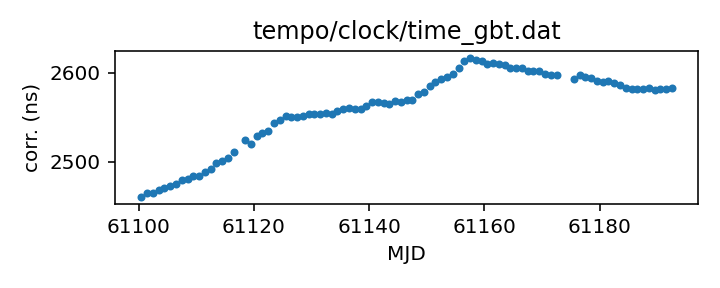
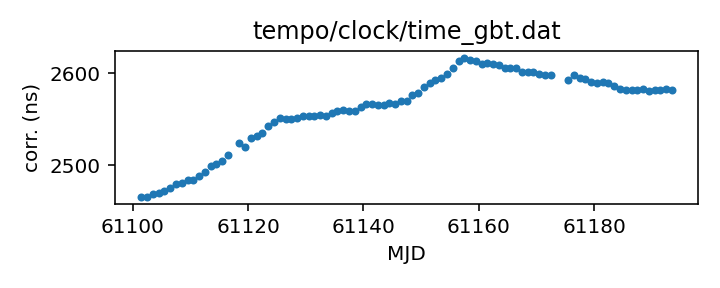
Routine gh-pages update from Github action Wed Jun  3 22:38:55 UTC 2026

diff --git a/status.md b/status.md
@@ -13,18 +13,18 @@ name of each clock file links to a page with more details.
 
 | Name | File | Corrections start | Corrections end | Last check date | Last check result 
 |:--- |:--- | --- | --- | --- |:--- 
-| [GPS to UTC](T2runtime/clock/gps2utc.clk.html) | `T2runtime/clock/gps2utc.clk` | 1993-01-01 MJD 48988.0 | 2026-04-29 MJD 61159.0 | 2026-06-02 | Unchanged 
-| [GPS to UTC (Combined Clock)](T2runtime/clock/gps2utc_cc.clk.html) | `T2runtime/clock/gps2utc_cc.clk` | 1993-01-01 MJD 48988.0 | 2026-04-29 MJD 61159.0 | 2026-06-02 | Unchanged 
-| [GPS to UTC (Corrected)](T2runtime/clock/gps2utc_c0p.clk.html) | `T2runtime/clock/gps2utc_c0p.clk` | 2010-12-29 MJD 55559.0 | 2026-04-29 MJD 61159.0 | 2026-06-02 | Unchanged 
-| [GBT](tempo/clock/time_gbt.dat.html) | `tempo/clock/time_gbt.dat` | 2000-12-31 MJD 51909.5 | 2026-06-01 MJD 61192.5 | 2026-06-02 | Updated 
-| [GBT (TEMPO2 converted from TEMPO)](T2runtime/clock/gbt2gps.clk.html) | `T2runtime/clock/gbt2gps.clk` | 2000-12-31 MJD 51909.5 | 2024-05-18 MJD 60448.5 | 2026-06-02 | **Validation failed** 
+| [GPS to UTC](T2runtime/clock/gps2utc.clk.html) | `T2runtime/clock/gps2utc.clk` | 1993-01-01 MJD 48988.0 | 2026-04-29 MJD 61159.0 | 2026-06-03 | Unchanged 
+| [GPS to UTC (Combined Clock)](T2runtime/clock/gps2utc_cc.clk.html) | `T2runtime/clock/gps2utc_cc.clk` | 1993-01-01 MJD 48988.0 | 2026-04-29 MJD 61159.0 | 2026-06-03 | Unchanged 
+| [GPS to UTC (Corrected)](T2runtime/clock/gps2utc_c0p.clk.html) | `T2runtime/clock/gps2utc_c0p.clk` | 2010-12-29 MJD 55559.0 | 2026-04-29 MJD 61159.0 | 2026-06-03 | Unchanged 
+| [GBT](tempo/clock/time_gbt.dat.html) | `tempo/clock/time_gbt.dat` | 2000-12-31 MJD 51909.5 | 2026-06-02 MJD 61193.5 | 2026-06-03 | Updated 
+| [GBT (TEMPO2 converted from TEMPO)](T2runtime/clock/gbt2gps.clk.html) | `T2runtime/clock/gbt2gps.clk` | 2000-12-31 MJD 51909.5 | 2024-05-18 MJD 60448.5 | 2026-06-03 | **Validation failed** 
 | [Jodrell Bank](T2runtime/clock/jb2gps.clk.html) | `T2runtime/clock/jb2gps.clk` | 2006-10-13 MJD 54021.4 | 2026-04-17 MJD 61147.0 | 2026-06-01 | Unchanged 
 | [Jodrell Bank Roach](T2runtime/clock/jbroach2jb.clk.html) | `T2runtime/clock/jbroach2jb.clk` | 2006-10-13 MJD 54021.4 | 2018-03-20 MJD 58197.6 | 2026-05-29 | Unchanged 
 | [Jodrell Bank DFB](T2runtime/clock/jbdfb2jb.clk.html) | `T2runtime/clock/jbdfb2jb.clk` | 2006-10-13 MJD 54021.4 | 2021-02-22 MJD 59268.0 | 2026-05-29 | Unchanged 
 | [Meerkat (observatory)](T2runtime/clock/mk2utc_observatory.clk.html) | `T2runtime/clock/mk2utc_observatory.clk` | 2019-01-01 MJD 58484.0 | 2026-04-10 MJD 61141.0 | 2026-05-29 | **Validation failed** 
-| [Leap seconds](tempo/clock/leap.sec.html) | `tempo/clock/leap.sec` | 1972-07-01 MJD 41499.0 | 2017-01-01 MJD 57754.0 | 2026-06-02 | Unchanged 
-| [UT1 table](tempo/clock/ut1.dat.html) | `tempo/clock/ut1.dat` | 1973-01-02 MJD 41684.0 | 2027-06-05 MJD 61561.0 | 2026-06-02 | Unchanged 
-| [UT1 table](T2runtime/clock/ut1.dat.html) | `T2runtime/clock/ut1.dat` | 1973-01-02 MJD 41684.0 | 2027-06-05 MJD 61561.0 | 2026-06-02 | Unchanged 
+| [Leap seconds](tempo/clock/leap.sec.html) | `tempo/clock/leap.sec` | 1972-07-01 MJD 41499.0 | 2017-01-01 MJD 57754.0 | 2026-06-03 | Unchanged 
+| [UT1 table](tempo/clock/ut1.dat.html) | `tempo/clock/ut1.dat` | 1973-01-02 MJD 41684.0 | 2027-06-05 MJD 61561.0 | 2026-06-03 | Unchanged 
+| [UT1 table](T2runtime/clock/ut1.dat.html) | `T2runtime/clock/ut1.dat` | 1973-01-02 MJD 41684.0 | 2027-06-05 MJD 61561.0 | 2026-06-03 | Unchanged 
 
 
 

diff --git a/tempo/clock/time_gbt.dat.md b/tempo/clock/time_gbt.dat.md
@@ -36,14 +36,13 @@ If questions arise, contact Ryan S. Lynch <[email redacted]>.
 | Format | tempo |
 | Bogus last correction | False |
 | Clock file start | 2000-12-31 MJD 51909.5 |
-| Clock file end | 2026-06-01 MJD 61192.5 |
+| Clock file end | 2026-06-02 MJD 61193.5 |
 | Update interval (days) | 1 |
-| Last update attempt | 2026-06-02 |
+| Last update attempt | 2026-06-03 |
 | Last update result | Updated |
 
 Log entries from the last few update attempts:
 ```
-2026-05-24 21:18:38.690 - Updated
 2026-05-25 21:41:31.710 - Updated
 2026-05-26 22:03:31.742 - Updated
 2026-05-27 22:17:37.713 - Updated
@@ -53,12 +52,13 @@ Log entries from the last few update attempts:
 2026-05-31 21:32:49.472 - Updated
 2026-06-01 22:42:31.436 - Updated
 2026-06-02 22:35:26.247 - Updated
[phone redacted]:38:37.185 - Updated
 ```
 [Full log](https://raw.githubusercontent.com/ipta/pulsar-clock-corrections/main/log/tempo/clock/time_gbt.dat.log)
 
 Leading comments from clock file:
 
-     -2612.50       0.0        -0.503 1    32766-dec
+     -2612.50       0.0        -0.503 1    32767-dec
 
 
 

diff --git a/T2runtime/clock/gbt2gps.clk.md b/T2runtime/clock/gbt2gps.clk.md
@@ -25,12 +25,11 @@ If questions arise about the conversion, contact Anne Archibald
 | Clock file start | 2000-12-31 MJD 51909.5 |
 | Clock file end | 2024-05-18 MJD 60448.5 |
 | Update interval (days) | 1 |
-| Last update attempt | 2026-06-02 |
+| Last update attempt | 2026-06-03 |
 | Last update result | Validation failed |
 
 Log entries from the last few update attempts:
 ```
-2026-05-24 21:18:38.759 - Validation failed: New version of T2runtime/clock/gbt2gps.clk MJDs differ from old version where they overlap in 8407 places
 2026-05-25 21:41:31.780 - Validation failed: New version of T2runtime/clock/gbt2gps.clk MJDs differ from old version where they overlap in 8407 places
 2026-05-26 22:03:31.809 - Validation failed: New version of T2runtime/clock/gbt2gps.clk MJDs differ from old version where they overlap in 8407 places
 2026-05-27 22:17:37.797 - Validation failed: New version of T2runtime/clock/gbt2gps.clk MJDs differ from old version where they overlap in 8407 places
@@ -40,6 +39,7 @@ Log entries from the last few update attempts:
 2026-05-31 21:32:49.541 - Validation failed: New version of T2runtime/clock/gbt2gps.clk MJDs differ from old version where they overlap in 8407 places
 2026-06-01 22:42:31.517 - Validation failed: New version of T2runtime/clock/gbt2gps.clk MJDs differ from old version where they overlap in 8407 places
 2026-06-02 22:35:26.329 - Validation failed: New version of T2runtime/clock/gbt2gps.clk MJDs differ from old version where they overlap in 8407 places
[phone redacted]:38:37.253 - Validation failed: New version of T2runtime/clock/gbt2gps.clk MJDs differ from old version where they overlap in 8407 places
 ```
 [Full log](https://raw.githubusercontent.com/ipta/pulsar-clock-corrections/main/log/T2runtime/clock/gbt2gps.clk.log)
 

diff --git a/T2runtime/clock/gps2utc.clk.md b/T2runtime/clock/gps2utc.clk.md
@@ -32,12 +32,11 @@ about the BIPM's published corrections, contact <[email redacted]>.
 | Clock file start | 1993-01-01 MJD 48988.0 |
 | Clock file end | 2026-04-29 MJD 61159.0 |
 | Update interval (days) | 1 |
-| Last update attempt | 2026-06-02 |
+| Last update attempt | 2026-06-03 |
 | Last update result | Unchanged |
 
 Log entries from the last few update attempts:
 ```
-2026-05-24 21:18:38.162 - Unchanged
 2026-05-25 21:41:31.000 - Unchanged
 2026-05-26 22:03:31.227 - Unchanged
 2026-05-27 22:17:36.684 - Unchanged
@@ -47,6 +46,7 @@ Log entries from the last few update attempts:
 2026-05-31 21:32:48.987 - Unchanged
 2026-06-01 22:42:30.954 - Unchanged
 2026-06-02 22:35:24.980 - Unchanged
[phone redacted]:38:36.729 - Unchanged
 ```
 [Full log](https://raw.githubusercontent.com/ipta/pulsar-clock-corrections/main/log/T2runtime/clock/gps2utc.clk.log)
 

diff --git a/T2runtime/clock/gps2utc_c0p.clk.md b/T2runtime/clock/gps2utc_c0p.clk.md
@@ -30,12 +30,11 @@ about the BIPM's published corrections, contact <[email redacted]>.
 | Clock file start | 2010-12-29 MJD 55559.0 |
 | Clock file end | 2026-04-29 MJD 61159.0 |
 | Update interval (days) | 1 |
-| Last update attempt | 2026-06-02 |
+| Last update attempt | 2026-06-03 |
 | Last update result | Unchanged |
 
 Log entries from the last few update attempts:
 ```
-2026-05-24 21:18:38.191 - Unchanged
 2026-05-25 21:41:31.030 - Unchanged
 2026-05-26 22:03:31.256 - Unchanged
 2026-05-27 22:17:36.714 - Unchanged
@@ -45,6 +44,7 @@ Log entries from the last few update attempts:
 2026-05-31 21:32:49.016 - Unchanged
 2026-06-01 22:42:30.985 - Unchanged
 2026-06-02 22:35:25.011 - Unchanged
[phone redacted]:38:36.759 - Unchanged
 ```
 [Full log](https://raw.githubusercontent.com/ipta/pulsar-clock-corrections/main/log/T2runtime/clock/gps2utc_c0p.clk.log)
 

diff --git a/T2runtime/clock/gps2utc_cc.clk.md b/T2runtime/clock/gps2utc_cc.clk.md
@@ -29,12 +29,11 @@ about the BIPM's published corrections, contact <[email redacted]>.
 | Clock file start | 1993-01-01 MJD 48988.0 |
 | Clock file end | 2026-04-29 MJD 61159.0 |
 | Update interval (days) | 1 |
-| Last update attempt | 2026-06-02 |
+| Last update attempt | 2026-06-03 |
 | Last update result | Unchanged |
 
 Log entries from the last few update attempts:
 ```
-2026-05-24 21:18:38.183 - Unchanged
 2026-05-25 21:41:31.022 - Unchanged
 2026-05-26 22:03:31.248 - Unchanged
 2026-05-27 22:17:36.706 - Unchanged
@@ -44,6 +43,7 @@ Log entries from the last few update attempts:
 2026-05-31 21:32:49.008 - Unchanged
 2026-06-01 22:42:30.977 - Unchanged
 2026-06-02 22:35:25.003 - Unchanged
[phone redacted]:38:36.750 - Unchanged
 ```
 [Full log](https://raw.githubusercontent.com/ipta/pulsar-clock-corrections/main/log/T2runtime/clock/gps2utc_cc.clk.log)
 

diff --git a/T2runtime/clock/ut1.dat.md b/T2runtime/clock/ut1.dat.md
@@ -30,12 +30,11 @@ If there are any questions, contact Anne Archibald
 | File start | 1973-01-02 MJD 41684.0 |
 | File end | 2027-06-05 MJD 61561.0 |
 | Update interval (days) | 0 |
-| Last update attempt | 2026-06-02 |
+| Last update attempt | 2026-06-03 |
 | Last update result | Unchanged |
 
 Log entries from the last few update attempts:
 ```
-2026-05-24 21:18:43.063 - Unchanged
 2026-05-25 21:41:37.342 - Unchanged
 2026-05-26 22:03:35.744 - Unchanged
 2026-05-27 22:17:42.846 - Unchanged
@@ -45,5 +44,6 @@ Log entries from the last few update attempts:
 2026-05-31 21:32:53.527 - Unchanged
 2026-06-01 22:42:35.856 - Unchanged
 2026-06-02 22:35:32.051 - Unchanged
[phone redacted]:38:40.557 - Unchanged
 ```
 [Full log](https://raw.githubusercontent.com/ipta/pulsar-clock-corrections/main/log/T2runtime/clock/ut1.dat.log)

diff --git a/tempo/clock/leap.sec.md b/tempo/clock/leap.sec.md
@@ -21,12 +21,11 @@ If there are any questions, contact Anne Archibald
 | File start | 1972-07-01 MJD 41499.0 |
 | File end | 2017-01-01 MJD 57754.0 |
 | Update interval (days) | 0 |
-| Last update attempt | 2026-06-02 |
+| Last update attempt | 2026-06-03 |
 | Last update result | Unchanged |
 
 Log entries from the last few update attempts:
 ```
-2026-05-24 21:18:38.780 - Unchanged
 2026-05-25 21:41:32.724 - Unchanged
 2026-05-26 22:03:31.830 - Unchanged
 2026-05-27 22:17:37.822 - Unchanged
@@ -36,5 +35,6 @@ Log entries from the last few update attempts:
 2026-05-31 21:32:49.562 - Unchanged
 2026-06-01 22:42:32.296 - Unchanged
 2026-06-02 22:35:26.355 - Unchanged
[phone redacted]:38:37.274 - Unchanged
 ```
 [Full log](https://raw.githubusercontent.com/ipta/pulsar-clock-corrections/main/log/tempo/clock/leap.sec.log)

diff --git a/tempo/clock/ut1.dat.md b/tempo/clock/ut1.dat.md
@@ -30,12 +30,11 @@ If there are any questions, contact Anne Archibald
 | File start | 1973-01-02 MJD 41684.0 |
 | File end | 2027-06-05 MJD 61561.0 |
 | Update interval (days) | 0 |
-| Last update attempt | 2026-06-02 |
+| Last update attempt | 2026-06-03 |
 | Last update result | Unchanged |
 
 Log entries from the last few update attempts:
 ```
-2026-05-24 21:18:43.021 - Unchanged
 2026-05-25 21:41:37.300 - Unchanged
 2026-05-26 22:03:35.703 - Unchanged
 2026-05-27 22:17:42.797 - Unchanged
@@ -45,5 +44,6 @@ Log entries from the last few update attempts:
 2026-05-31 21:32:53.485 - Unchanged
 2026-06-01 22:42:35.808 - Unchanged
 2026-06-02 22:35:32.001 - Unchanged
[phone redacted]:38:40.515 - Unchanged
 ```
 [Full log](https://raw.githubusercontent.com/ipta/pulsar-clock-corrections/main/log/tempo/clock/ut1.dat.log)